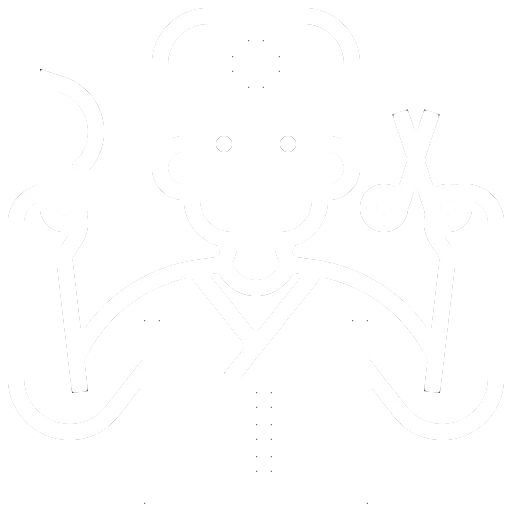
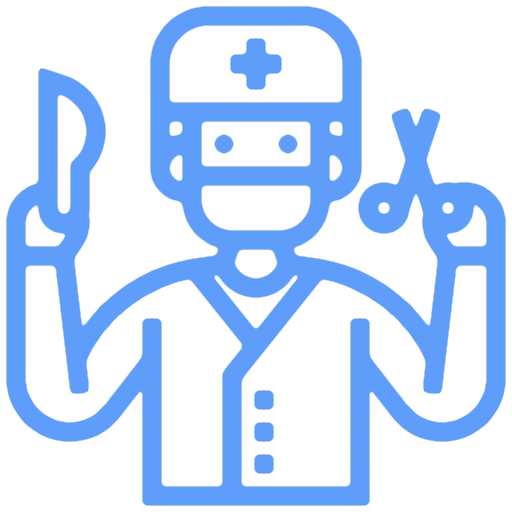
Colour updates

diff --git a/readme.md b/readme.md
@@ -1,5 +1,5 @@
 ---
-icon: "images/hospital.svg"
+icon: "images/hospital.webp"
 ---
 
 # Clinical Guidelines
